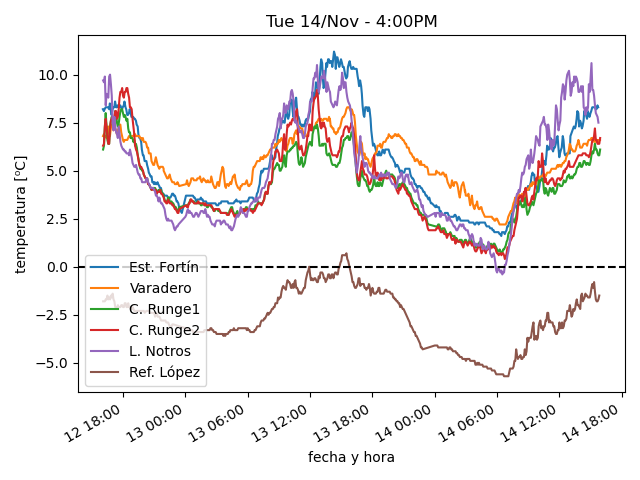
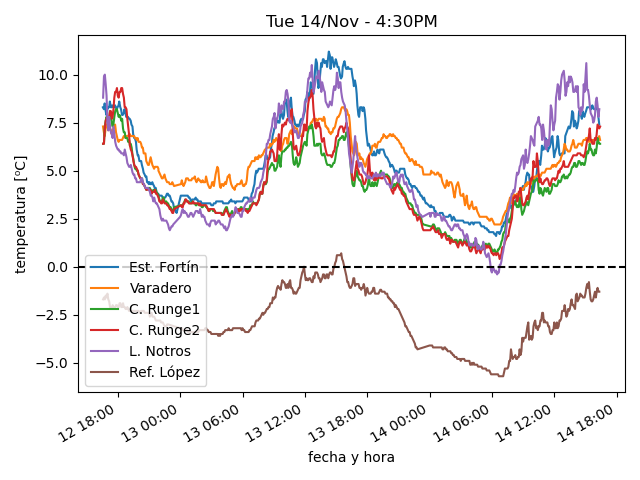
actualiza datos

diff --git a/estaciones/estacion3.html b/estaciones/estacion3.html
@@ -18,32 +18,32 @@
     </tr>
     <tr>
      <td class="stats_data">
-      3:54PM
+      4:24PM
      </td>
     </tr>
     <tr>
      <td class="stats_data">
-      6.1⁰C
+      6.4⁰C
      </td>
     </tr>
     <tr>
      <td class="stats_data">
-      -0.1⁰C
+      0.2⁰C
      </td>
     </tr>
     <tr>
      <td class="stats_data">
-      64.5%
+      64.2%
      </td>
     </tr>
     <tr>
      <td class="stats_data">
-      1003.12hPa
+      1003.01hPa
      </td>
     </tr>
     <tr>
      <td class="stats_data">
-      13.1/19.7 km/hr NW
+      14.0/20.6 km/hr NNW
      </td>
     </tr>
     <tr>
@@ -53,12 +53,12 @@
     </tr>
     <tr>
      <td class="stats_data">
-      8.0
+      10.0
      </td>
     </tr>
     <tr>
      <td class="stats_data">
-      784.7 W/m²
+      895.8 W/m²
      </td>
     </tr>
    </tbody>

diff --git a/estaciones/estacion2.html b/estaciones/estacion2.html
@@ -18,7 +18,7 @@
     </tr>
     <tr>
      <td class="stats_data">
-      3:54PM
+      4:24PM
      </td>
     </tr>
     <tr>
@@ -28,22 +28,22 @@
     </tr>
     <tr>
      <td class="stats_data">
-      2.0⁰C
+      1.8⁰C
      </td>
     </tr>
     <tr>
      <td class="stats_data">
-      72.3%
+      71.5%
      </td>
     </tr>
     <tr>
      <td class="stats_data">
-      1018.32hPa
+      1018.22hPa
      </td>
     </tr>
     <tr>
      <td class="stats_data">
-      35.6/41.8 km/hr NW
+      35.1/40.4 km/hr NW
      </td>
     </tr>
     <tr>
@@ -53,12 +53,12 @@
     </tr>
     <tr>
      <td class="stats_data">
-      4.0
+      7.0
      </td>
     </tr>
     <tr>
      <td class="stats_data">
-      448.1 W/m²
+      793.3 W/m²
      </td>
     </tr>
    </tbody>

diff --git a/estaciones/estacion1.html b/estaciones/estacion1.html
@@ -18,22 +18,22 @@
     </tr>
     <tr>
      <td class="stats_data">
-      3:43PM
+      4:19PM
      </td>
     </tr>
     <tr>
      <td class="stats_data">
-      8.3⁰C
+      7.4⁰C
      </td>
     </tr>
     <tr>
      <td class="stats_data">
-      -2.0⁰C
+      -2.1⁰C
      </td>
     </tr>
     <tr>
      <td class="stats_data">
-      48.5%
+      51.0%
      </td>
     </tr>
     <tr>
@@ -43,7 +43,7 @@
     </tr>
     <tr>
      <td class="stats_data">
-      20.2/33.8 km/hr WNW
+      21.0/34.9 km/hr WNW
      </td>
     </tr>
     <tr>
@@ -53,12 +53,12 @@
     </tr>
     <tr>
      <td class="stats_data">
-      4.9
+      2.6
      </td>
     </tr>
     <tr>
      <td class="stats_data">
-      921.0 W/m²
+      251.0 W/m²
      </td>
     </tr>
    </tbody>

diff --git a/estaciones/estacion6.html b/estaciones/estacion6.html
@@ -18,32 +18,32 @@
     </tr>
     <tr>
      <td class="stats_data">
-      3:50PM
+      4:20PM
      </td>
     </tr>
     <tr>
      <td class="stats_data">
-      -1.5⁰C
+      -1.3⁰C
      </td>
     </tr>
     <tr>
      <td class="stats_data">
-      -4.2⁰C
+      -4.3⁰C
      </td>
     </tr>
     <tr>
      <td class="stats_data">
-      82.0%
+      80.0%
      </td>
     </tr>
     <tr>
      <td class="stats_data">
-      1016.76hPa
+      1016.49hPa
      </td>
     </tr>
     <tr>
      <td class="stats_data">
-      9.7/20.9 km/hr SE
+      16.1/25.7 km/hr SE
      </td>
     </tr>
     <tr>
@@ -58,7 +58,7 @@
     </tr>
     <tr>
      <td class="stats_data">
-      892.0 W/m²
+      902.0 W/m²
      </td>
     </tr>
    </tbody>

diff --git a/estaciones/estacion4.html b/estaciones/estacion4.html
@@ -18,22 +18,22 @@
     </tr>
     <tr>
      <td class="stats_data">
-      3:54PM
+      4:24PM
      </td>
     </tr>
     <tr>
      <td class="stats_data">
-      6.7⁰C
+      7.3⁰C
      </td>
     </tr>
     <tr>
      <td class="stats_data">
-      -0.6⁰C
+      -0.1⁰C
      </td>
     </tr>
     <tr>
      <td class="stats_data">
-      59.6%
+      59.2%
      </td>
     </tr>
     <tr>
@@ -43,7 +43,7 @@
     </tr>
     <tr>
      <td class="stats_data">
-      5.6/8.8 km/hr SW
+      5.2/8.6 km/hr SW
      </td>
     </tr>
     <tr>
@@ -58,7 +58,7 @@
     </tr>
     <tr>
      <td class="stats_data">
-      247.1 W/m²
+      259.8 W/m²
      </td>
     </tr>
    </tbody>

diff --git a/estaciones/estacion5.html b/estaciones/estacion5.html
@@ -18,27 +18,27 @@
     </tr>
     <tr>
      <td class="stats_data">
-      3:45PM
+      4:20PM
      </td>
     </tr>
     <tr>
      <td class="stats_data">
-      7.5⁰C
+      8.2⁰C
      </td>
     </tr>
     <tr>
      <td class="stats_data">
-      0.3⁰C
+      0.7⁰C
      </td>
     </tr>
     <tr>
      <td class="stats_data">
-      60.0%
+      59.0%
      </td>
     </tr>
     <tr>
      <td class="stats_data">
-      1014.87hPa
+      1014.43hPa
      </td>
     </tr>
     <tr>
